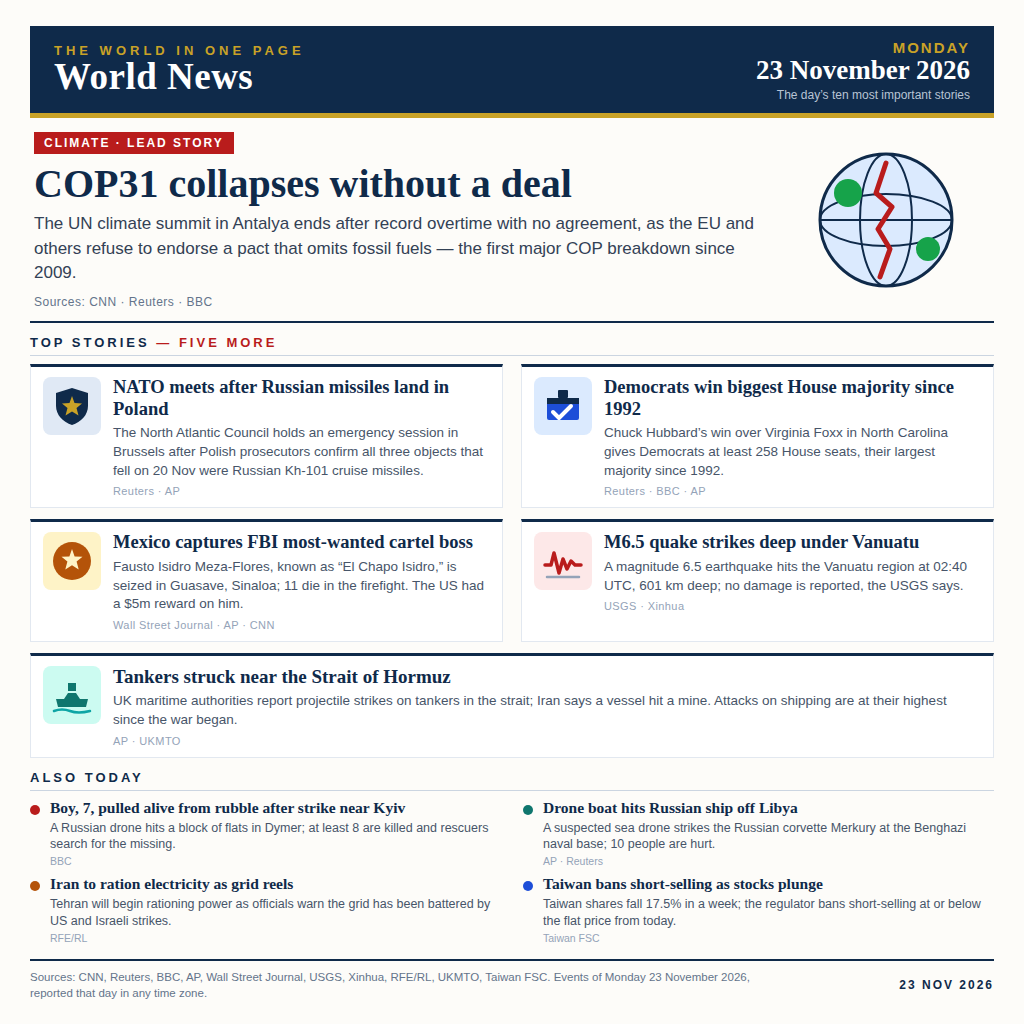
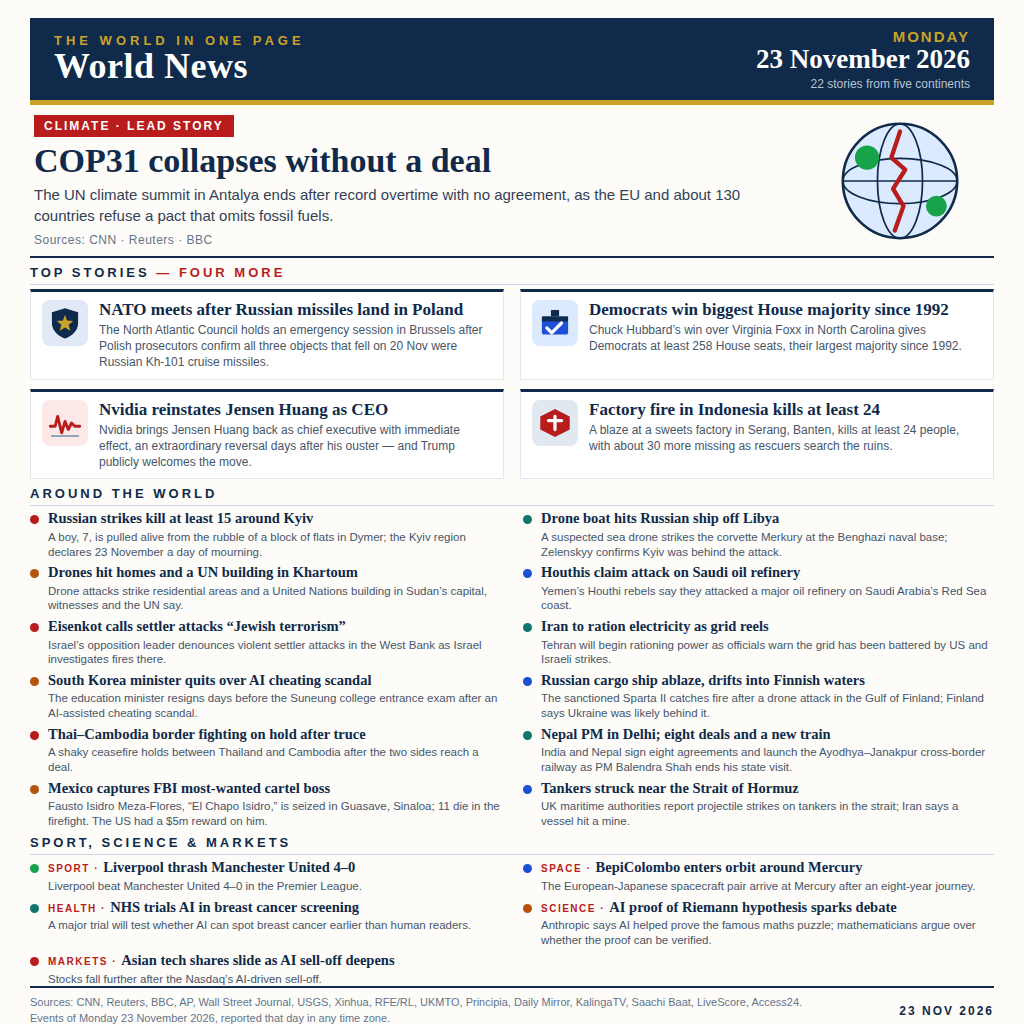
news-image rev2: 22 stories, 23 Nov 2026

Changed region(s): [[0.0312, 0.0, 0.9688, 1.0], [0.875, 0.9375, 0.9688, 1.0]]

diff --git a/index.html b/index.html
@@ -11,18 +11,18 @@
     margin: 0 auto; background: #fdfcf9;
     font-family: "Helvetica Neue", Helvetica, Arial, sans-serif;
     color: #1e293b; overflow: hidden;
-    padding: 26px 30px 22px 30px;
+    padding: 18px 30px 10px 30px;
     display: flex; flex-direction: column;
   }
   /* ---------- masthead ---------- */
   .masthead {
     background: #0f2a4a; color: #fff;
-    padding: 13px 24px 11px 24px;
+    padding: 10px 24px 9px 24px;
     display: flex; justify-content: space-between; align-items: center;
     border-bottom: 5px solid #c9a227;
   }
   .masthead .kicker { font-size: 13px; letter-spacing: 4px; color: #c9a227; font-weight: 700; }
-  .masthead h1 { font-family: Georgia, "Times New Roman", serif; font-size: 37px; line-height: 1.05; font-weight: 900; letter-spacing: 0.5px; }
+  .masthead h1 { font-family: Georgia, "Times New Roman", serif; font-size: 36px; line-height: 1.05; font-weight: 900; letter-spacing: 0.5px; }
   .masthead .datebox { text-align: right; }
   .masthead .datebox .day { font-size: 15px; letter-spacing: 2px; color: #c9a227; font-weight: 700; }
   .masthead .datebox .date { font-family: Georgia, serif; font-size: 27px; font-weight: 900; line-height: 1.1; }
@@ -30,40 +30,38 @@
   /* ---------- lead story ---------- */
   .lead {
     display: flex; gap: 22px;
-    padding: 14px 4px 12px 4px;
+    padding: 10px 4px 9px 4px;
     border-bottom: 2px solid #0f2a4a;
   }
   .lead .lead-text { flex: 1; }
   .lead .tag { display: inline-block; background: #b91c1c; color: #fff; font-size: 12px; font-weight: 800; letter-spacing: 2px; padding: 4px 10px; }
-  .lead h2 { font-family: Georgia, serif; font-size: 40px; line-height: 1.08; font-weight: 900; color: #0f2a4a; margin: 8px 0 7px 0; }
-  .lead p { font-size: 17px; line-height: 1.45; color: #334155; }
-  .lead .src { font-size: 12px; color: #64748b; margin-top: 9px; letter-spacing: 0.5px; }
-  .lead .art { width: 208px; flex-shrink: 0; display: flex; align-items: center; justify-content: center; }
+  .lead h2 { font-family: Georgia, serif; font-size: 34px; line-height: 1.08; font-weight: 900; color: #0f2a4a; margin: 6px 0 5px 0; }
+  .lead p { font-size: 15px; line-height: 1.4; color: #334155; }
+  .lead .src { font-size: 12px; color: #64748b; margin-top: 7px; letter-spacing: 0.5px; }
+  .lead .art { width: 180px; flex-shrink: 0; display: flex; align-items: center; justify-content: center; }
   /* ---------- section label ---------- */
-  .seclabel { font-size: 13px; font-weight: 800; letter-spacing: 3px; color: #0f2a4a; margin: 12px 0 8px 0; border-bottom: 1px solid #cbd5e1; padding-bottom: 5px; }
+  .seclabel { font-size: 13px; font-weight: 800; letter-spacing: 3px; color: #0f2a4a; margin: 7px 0 4px 0; border-bottom: 1px solid #cbd5e1; padding-bottom: 4px; }
   .seclabel span { color: #b91c1c; }
   /* ---------- top stories grid ---------- */
-  .topgrid { display: grid; grid-template-columns: 1fr 1fr; gap: 11px 18px; }
-  .card { display: flex; gap: 12px; background: #fff; border: 1px solid #e2e8f0; border-top: 3px solid #0f2a4a; padding: 10px 12px; }
-  .card .icon { width: 58px; height: 58px; flex-shrink: 0; border-radius: 8px; display: flex; align-items: center; justify-content: center; }
-  .card h3 { font-family: Georgia, serif; font-size: 18.5px; line-height: 1.18; font-weight: 900; color: #0f2a4a; }
-  .card p { font-size: 13.5px; line-height: 1.38; color: #475569; margin-top: 4px; }
-  .card .src { font-size: 11px; color: #94a3b8; margin-top: 5px; letter-spacing: 0.4px; }
-  .card.wide { grid-column: 1 / -1; }
-  .card.wide h3 { font-size: 19px; }
+  .topgrid { display: grid; grid-template-columns: 1fr 1fr; gap: 9px 16px; }
+  .card { display: flex; gap: 11px; background: #fff; border: 1px solid #e2e8f0; border-top: 3px solid #0f2a4a; padding: 8px 11px; }
+  .card .icon { width: 46px; height: 46px; flex-shrink: 0; border-radius: 8px; display: flex; align-items: center; justify-content: center; }
+  .card h3 { font-family: Georgia, serif; font-size: 17px; line-height: 1.18; font-weight: 900; color: #0f2a4a; }
+  .card p { font-size: 12px; line-height: 1.32; color: #475569; margin-top: 3px; }
+  .card .src { font-size: 11px; color: #94a3b8; margin-top: 4px; letter-spacing: 0.4px; }
   /* icon background colours */
   .ic-navy { background: #e0e9f5; } .ic-red { background: #fde8e8; } .ic-blue { background: #dbeafe; }
   .ic-amber { background: #fef3c7; } .ic-teal { background: #ccfbf1; } .ic-slate { background: #e2e8f0; }
-  /* ---------- secondary list ---------- */
-  .second { display: grid; grid-template-columns: 1fr 1fr; gap: 8px 22px; }
-  .sitem { display: flex; gap: 10px; align-items: flex-start; }
-  .sitem .dot { width: 10px; height: 10px; border-radius: 50%; margin-top: 6px; flex-shrink: 0; }
-  .sitem h4 { font-family: Georgia, serif; font-size: 15.5px; line-height: 1.22; font-weight: 900; color: #0f2a4a; }
-  .sitem p { font-size: 12.5px; line-height: 1.35; color: #475569; margin-top: 2px; }
-  .sitem .src { font-size: 10.5px; color: #94a3b8; margin-top: 2px; }
+  /* ---------- compact lists ---------- */
+  .second { display: grid; grid-template-columns: 1fr 1fr; gap: 5px 22px; }
+  .sitem { display: flex; gap: 9px; align-items: flex-start; }
+  .sitem .dot { width: 9px; height: 9px; border-radius: 50%; margin-top: 5px; flex-shrink: 0; }
+  .sitem h4 { font-family: Georgia, serif; font-size: 14.5px; line-height: 1.2; font-weight: 900; color: #0f2a4a; }
+  .sitem h4 .cat { font-family: "Helvetica Neue", Helvetica, Arial, sans-serif; font-size: 10px; font-weight: 800; letter-spacing: 1.5px; color: #b91c1c; }
+  .sitem p { font-size: 11.5px; line-height: 1.28; color: #475569; margin-top: 2px; }
   /* ---------- footer ---------- */
-  .footer { margin-top: auto; border-top: 2px solid #0f2a4a; padding-top: 8px; display: flex; justify-content: space-between; align-items: center; }
-  .footer .sources { font-size: 11.5px; color: #64748b; line-height: 1.45; max-width: 760px; }
+  .footer { margin-top: auto; border-top: 2px solid #0f2a4a; padding-top: 7px; display: flex; justify-content: space-between; align-items: center; }
+  .footer .sources { font-size: 11px; color: #64748b; line-height: 1.4; max-width: 780px; }
   .footer .tag2 { font-size: 12px; font-weight: 800; letter-spacing: 2px; color: #0f2a4a; text-align: right; }
 </style>
 </head>
@@ -78,7 +76,7 @@
     <div class="datebox">
       <div class="day">MONDAY</div>
       <div class="date">23 November 2026</div>
-      <div class="sub">The day&#8217;s ten most important stories</div>
+      <div class="sub">22 stories from five continents</div>
     </div>
   </div>
 
@@ -87,12 +85,12 @@
     <div class="lead-text">
       <span class="tag">CLIMATE &middot; LEAD STORY</span>
       <h2>COP31 collapses without a deal</h2>
-      <p>The UN climate summit in Antalya ends after record overtime with no agreement, as the EU and others refuse to endorse a pact that omits fossil fuels &mdash; the first major COP breakdown since 2009.</p>
+      <p>The UN climate summit in Antalya ends after record overtime with no agreement, as the EU and about 130 countries refuse a pact that omits fossil fuels.</p>
       <div class="src">Sources: CNN &middot; Reuters &middot; BBC</div>
     </div>
     <div class="art">
       <!-- cracked globe -->
-      <svg width="196" height="150" viewBox="0 0 196 150" xmlns="http://www.w3.org/2000/svg">
+      <svg width="170" height="130" viewBox="0 0 196 150" xmlns="http://www.w3.org/2000/svg">
         <circle cx="98" cy="75" r="66" fill="#dbeafe" stroke="#0f2a4a" stroke-width="3"/>
         <ellipse cx="98" cy="75" rx="66" ry="26" fill="none" stroke="#0f2a4a" stroke-width="2"/>
         <ellipse cx="98" cy="75" rx="26" ry="66" fill="none" stroke="#0f2a4a" stroke-width="2"/>
@@ -104,13 +102,13 @@
     </div>
   </div>
 
-  <div class="seclabel">TOP STORIES <span>&mdash; FIVE MORE</span></div>
+  <div class="seclabel">TOP STORIES <span>&mdash; FOUR MORE</span></div>
 
   <!-- TOP GRID -->
   <div class="topgrid">
     <div class="card">
       <div class="icon ic-navy">
-        <svg width="44" height="44" viewBox="0 0 44 44" xmlns="http://www.w3.org/2000/svg">
+        <svg width="36" height="36" viewBox="0 0 44 44" xmlns="http://www.w3.org/2000/svg">
           <path d="M22 4 L38 9 V22 C38 31 31 38 22 41 C13 38 6 31 6 22 V9 Z" fill="#0f2a4a"/>
           <path d="M22 12 L24.5 19 L32 19.5 L26.5 24 L28.5 31.5 L22 27.5 L15.5 31.5 L17.5 24 L12 19.5 L19.5 19 Z" fill="#c9a227"/>
         </svg>
@@ -118,13 +116,12 @@
       <div>
         <h3>NATO meets after Russian missiles land in Poland</h3>
         <p>The North Atlantic Council holds an emergency session in Brussels after Polish prosecutors confirm all three objects that fell on 20 Nov were Russian Kh-101 cruise missiles.</p>
-        <div class="src">Reuters &middot; AP</div>
       </div>
     </div>
 
     <div class="card">
       <div class="icon ic-blue">
-        <svg width="44" height="44" viewBox="0 0 44 44" xmlns="http://www.w3.org/2000/svg">
+        <svg width="36" height="36" viewBox="0 0 44 44" xmlns="http://www.w3.org/2000/svg">
           <rect x="6" y="14" width="32" height="22" rx="2" fill="#1d4ed8"/>
           <rect x="6" y="14" width="32" height="6" fill="#0f2a4a"/>
           <path d="M12 28 L18 34 L30 22" stroke="#fff" stroke-width="4" fill="none" stroke-linecap="round" stroke-linejoin="round"/>
@@ -134,94 +131,169 @@
       <div>
         <h3>Democrats win biggest House majority since 1992</h3>
         <p>Chuck Hubbard&#8217;s win over Virginia Foxx in North Carolina gives Democrats at least 258 House seats, their largest majority since 1992.</p>
-        <div class="src">Reuters &middot; BBC &middot; AP</div>
-      </div>
-    </div>
-
-    <div class="card">
-      <div class="icon ic-amber">
-        <svg width="44" height="44" viewBox="0 0 44 44" xmlns="http://www.w3.org/2000/svg">
-          <circle cx="22" cy="22" r="19" fill="#b45309"/>
-          <path d="M22 10 L24.6 17.4 L32.5 17.8 L26.6 22.6 L28.7 30.4 L22 26.2 L15.3 30.4 L17.4 22.6 L11.5 17.8 L19.4 17.4 Z" fill="#fef3c7"/>
-        </svg>
-      </div>
-      <div>
-        <h3>Mexico captures FBI most-wanted cartel boss</h3>
-        <p>Fausto Isidro Meza-Flores, known as &#8220;El Chapo Isidro,&#8221; is seized in Guasave, Sinaloa; 11 die in the firefight. The US had a $5m reward on him.</p>
-        <div class="src">Wall Street Journal &middot; AP &middot; CNN</div>
       </div>
     </div>
 
     <div class="card">
       <div class="icon ic-red">
-        <svg width="44" height="44" viewBox="0 0 44 44" xmlns="http://www.w3.org/2000/svg">
+        <svg width="36" height="36" viewBox="0 0 44 44" xmlns="http://www.w3.org/2000/svg">
           <polyline points="4,26 10,26 13,14 18,34 22,20 26,30 30,22 34,26 40,26" fill="none" stroke="#b91c1c" stroke-width="3.5" stroke-linecap="round" stroke-linejoin="round"/>
           <path d="M6 38 H38" stroke="#94a3b8" stroke-width="2.5" stroke-linecap="round"/>
         </svg>
       </div>
       <div>
-        <h3>M6.5 quake strikes deep under Vanuatu</h3>
-        <p>A magnitude 6.5 earthquake hits the Vanuatu region at 02:40 UTC, 601 km deep; no damage is reported, the USGS says.</p>
-        <div class="src">USGS &middot; Xinhua</div>
+        <h3>Nvidia reinstates Jensen Huang as CEO</h3>
+        <p>Nvidia brings Jensen Huang back as chief executive with immediate effect, an extraordinary reversal days after his ouster &mdash; and Trump publicly welcomes the move.</p>
       </div>
     </div>
 
-    <div class="card wide">
-      <div class="icon ic-teal">
-        <svg width="44" height="44" viewBox="0 0 44 44" xmlns="http://www.w3.org/2000/svg">
-          <path d="M6 26 L14 26 L18 20 L26 20 L30 26 L38 26 L36 34 L8 34 Z" fill="#0f766e"/>
-          <rect x="18" y="10" width="8" height="8" fill="#0f766e"/>
-          <path d="M4 38 Q12 35 20 38 Q28 41 40 38" stroke="#0ea5a5" stroke-width="2.5" fill="none" stroke-linecap="round"/>
+    <div class="card">
+      <div class="icon ic-slate">
+        <svg width="36" height="36" viewBox="0 0 44 44" xmlns="http://www.w3.org/2000/svg">
+          <path d="M22 5 L40 14 V30 L22 39 L4 30 V14 Z" fill="#b91c1c"/>
+          <path d="M22 14 L22 30 M14 19 L30 19" stroke="#fff" stroke-width="4" stroke-linecap="round"/>
         </svg>
       </div>
       <div>
-        <h3>Tankers struck near the Strait of Hormuz</h3>
-        <p>UK maritime authorities report projectile strikes on tankers in the strait; Iran says a vessel hit a mine. Attacks on shipping are at their highest since the war began.</p>
-        <div class="src">AP &middot; UKMTO</div>
+        <h3>Factory fire in Indonesia kills at least 24</h3>
+        <p>A blaze at a sweets factory in Serang, Banten, kills at least 24 people, with about 30 more missing as rescuers search the ruins.</p>
       </div>
     </div>
   </div>
 
-  <div class="seclabel">ALSO TODAY</div>
+  <div class="seclabel">AROUND THE WORLD</div>
 
-  <!-- SECONDARY -->
+  <!-- AROUND THE WORLD -->
   <div class="second">
     <div class="sitem">
       <div class="dot" style="background:#b91c1c"></div>
       <div>
-        <h4>Boy, 7, pulled alive from rubble after strike near Kyiv</h4>
-        <p>A Russian drone hits a block of flats in Dymer; at least 8 are killed and rescuers search for the missing.</p>
-        <div class="src">BBC</div>
+        <h4>Russian strikes kill at least 15 around Kyiv</h4>
+        <p>A boy, 7, is pulled alive from the rubble of a block of flats in Dymer; the Kyiv region declares 23 November a day of mourning.</p>
       </div>
     </div>
     <div class="sitem">
       <div class="dot" style="background:#0f766e"></div>
       <div>
         <h4>Drone boat hits Russian ship off Libya</h4>
-        <p>A suspected sea drone strikes the Russian corvette Merkury at the Benghazi naval base; 10 people are hurt.</p>
-        <div class="src">AP &middot; Reuters</div>
+        <p>A suspected sea drone strikes the corvette Merkury at the Benghazi naval base; Zelenskyy confirms Kyiv was behind the attack.</p>
       </div>
     </div>
     <div class="sitem">
       <div class="dot" style="background:#b45309"></div>
       <div>
-        <h4>Iran to ration electricity as grid reels</h4>
-        <p>Tehran will begin rationing power as officials warn the grid has been battered by US and Israeli strikes.</p>
-        <div class="src">RFE/RL</div>
+        <h4>Drones hit homes and a UN building in Khartoum</h4>
+        <p>Drone attacks strike residential areas and a United Nations building in Sudan&#8217;s capital, witnesses and the UN say.</p>
       </div>
     </div>
     <div class="sitem">
       <div class="dot" style="background:#1d4ed8"></div>
       <div>
-        <h4>Taiwan bans short-selling as stocks plunge</h4>
-        <p>Taiwan shares fall 17.5% in a week; the regulator bans short-selling at or below the flat price from today.</p>
-        <div class="src">Taiwan FSC</div>
+        <h4>Houthis claim attack on Saudi oil refinery</h4>
+        <p>Yemen&#8217;s Houthi rebels say they attacked a major oil refinery on Saudi Arabia&#8217;s Red Sea coast.</p>
+      </div>
+    </div>
+    <div class="sitem">
+      <div class="dot" style="background:#b91c1c"></div>
+      <div>
+        <h4>Eisenkot calls settler attacks &#8220;Jewish terrorism&#8221;</h4>
+        <p>Israel&#8217;s opposition leader denounces violent settler attacks in the West Bank as Israel investigates fires there.</p>
+      </div>
+    </div>
+    <div class="sitem">
+      <div class="dot" style="background:#0f766e"></div>
+      <div>
+        <h4>Iran to ration electricity as grid reels</h4>
+        <p>Tehran will begin rationing power as officials warn the grid has been battered by US and Israeli strikes.</p>
+      </div>
+    </div>
+    <div class="sitem">
+      <div class="dot" style="background:#b45309"></div>
+      <div>
+        <h4>South Korea minister quits over AI cheating scandal</h4>
+        <p>The education minister resigns days before the Suneung college entrance exam after an AI-assisted cheating scandal.</p>
+      </div>
+    </div>
+    <div class="sitem">
+      <div class="dot" style="background:#1d4ed8"></div>
+      <div>
+        <h4>Russian cargo ship ablaze, drifts into Finnish waters</h4>
+        <p>The sanctioned Sparta II catches fire after a drone attack in the Gulf of Finland; Finland says Ukraine was likely behind it.</p>
+      </div>
+    </div>
+    <div class="sitem">
+      <div class="dot" style="background:#b91c1c"></div>
+      <div>
+        <h4>Thai&#8211;Cambodia border fighting on hold after truce</h4>
+        <p>A shaky ceasefire holds between Thailand and Cambodia after the two sides reach a deal.</p>
+      </div>
+    </div>
+    <div class="sitem">
+      <div class="dot" style="background:#0f766e"></div>
+      <div>
+        <h4>Nepal PM in Delhi; eight deals and a new train</h4>
+        <p>India and Nepal sign eight agreements and launch the Ayodhya&#8211;Janakpur cross-border railway as PM Balendra Shah ends his state visit.</p>
+      </div>
+    </div>
+    <div class="sitem">
+      <div class="dot" style="background:#b45309"></div>
+      <div>
+        <h4>Mexico captures FBI most-wanted cartel boss</h4>
+        <p>Fausto Isidro Meza-Flores, &#8220;El Chapo Isidro,&#8221; is seized in Guasave, Sinaloa; 11 die in the firefight. The US had a $5m reward on him.</p>
+      </div>
+    </div>
+    <div class="sitem">
+      <div class="dot" style="background:#1d4ed8"></div>
+      <div>
+        <h4>Tankers struck near the Strait of Hormuz</h4>
+        <p>UK maritime authorities report projectile strikes on tankers in the strait; Iran says a vessel hit a mine.</p>
+      </div>
+    </div>
+  </div>
+
+  <div class="seclabel">SPORT, SCIENCE &amp; MARKETS</div>
+
+  <!-- SPORT / SCIENCE / MARKETS -->
+  <div class="second">
+    <div class="sitem">
+      <div class="dot" style="background:#16a34a"></div>
+      <div>
+        <h4><span class="cat">SPORT &middot; </span>Liverpool thrash Manchester United 4&#8211;0</h4>
+        <p>Liverpool beat Manchester United 4&#8211;0 in the Premier League.</p>
+      </div>
+    </div>
+    <div class="sitem">
+      <div class="dot" style="background:#1d4ed8"></div>
+      <div>
+        <h4><span class="cat">SPACE &middot; </span>BepiColombo enters orbit around Mercury</h4>
+        <p>The European-Japanese spacecraft pair arrive at Mercury after an eight-year journey.</p>
+      </div>
+    </div>
+    <div class="sitem">
+      <div class="dot" style="background:#0f766e"></div>
+      <div>
+        <h4><span class="cat">HEALTH &middot; </span>NHS trials AI in breast cancer screening</h4>
+        <p>A major trial will test whether AI can spot breast cancer earlier than human readers.</p>
+      </div>
+    </div>
+    <div class="sitem">
+      <div class="dot" style="background:#b45309"></div>
+      <div>
+        <h4><span class="cat">SCIENCE &middot; </span>AI proof of Riemann hypothesis sparks debate</h4>
+        <p>Anthropic says AI helped prove the famous maths puzzle; mathematicians argue over whether the proof can be verified.</p>
+      </div>
+    </div>
+    <div class="sitem">
+      <div class="dot" style="background:#b91c1c"></div>
+      <div>
+        <h4><span class="cat">MARKETS &middot; </span>Asian tech shares slide as AI sell-off deepens</h4>
+        <p>Stocks fall further after the Nasdaq&#8217;s AI-driven sell-off.</p>
       </div>
     </div>
   </div>
 
   <div class="footer">
-    <div class="sources">Sources: CNN, Reuters, BBC, AP, Wall Street Journal, USGS, Xinhua, RFE/RL, UKMTO, Taiwan FSC. Events of Monday 23 November 2026, reported that day in any time zone.</div>
+    <div class="sources">Sources: CNN, Reuters, BBC, AP, Wall Street Journal, USGS, Xinhua, RFE/RL, UKMTO, Principia, Daily Mirror, KalingaTV, Saachi Baat, LiveScore, Access24. Events of Monday 23 November 2026, reported that day in any time zone.</div>
     <div class="tag2">23 NOV 2026</div>
   </div>
 

diff --git a/main.ts b/main.ts
@@ -1,12 +1,12 @@
-// news-image-20261123 entry (Node 22, standard library only).
-// The infographic is rendered from index.html by render.mjs and stored here
-// as entry.png; this program copies it to the grader's output directory.
+// news-image-20261123 entry, revised round (Node 22, standard library only).
+// The front page is rendered from index.html by render.mjs into entry.png;
+// this program copies that image to the grader's output directory.
 // The gate takes a whole PNG of at most 1 MiB and 1024 by 1024 pixels.
 // Run locally:  mkdir -p out && MAKEFUN_OUTPUT_DIR=out node main.ts
 
 import { copyFileSync } from 'node:fs';
 import { join } from 'node:path';
 
-const outDir = process.env.MAKEFUN_OUTPUT_DIR ?? '/output';
-const source = new URL('./entry.png', import.meta.url);
-copyFileSync(source, join(outDir, 'entry.png'));
+const outputDir = process.env.MAKEFUN_OUTPUT_DIR ?? '/output';
+const image = new URL('./entry.png', import.meta.url);
+copyFileSync(image, join(outputDir, 'entry.png'));
